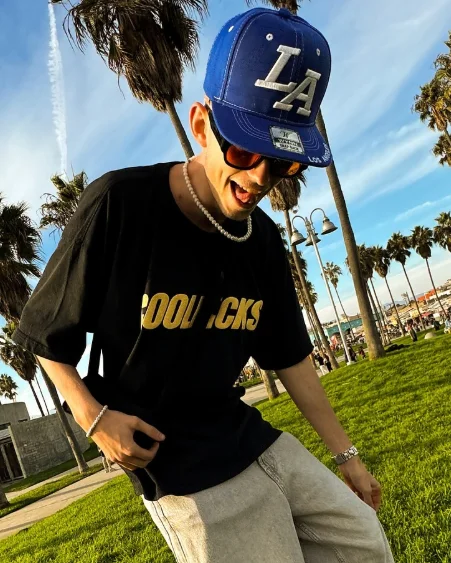
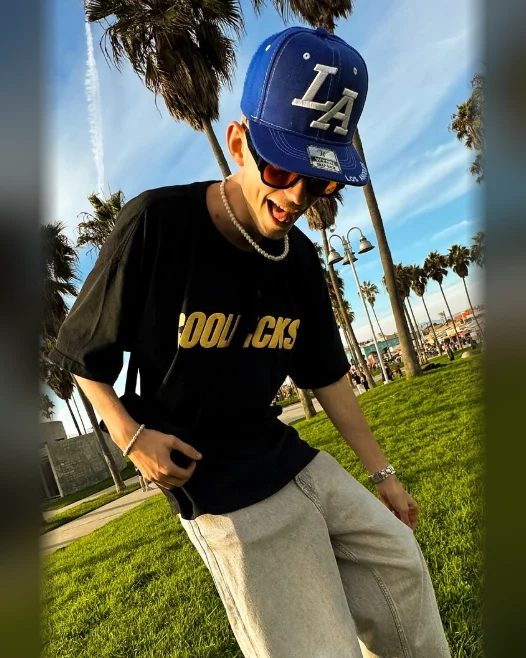
About-Slideshow: nur noch 4 Fotos, Brillen-Foto zuerst
Claude-Session: https://claude.ai/code/session_015Z19F1LdQwXbXrXTfqebLH

diff --git a/index.html b/index.html
@@ -930,7 +930,7 @@
       <header class="sec-head grid12"><h2 id="h-ueber" lang="en">About me</h2></header>
       <div class="grid12">
         <div class="about-a reveal">
-          <figure class="about-photo" aria-roledescription="Slideshow" aria-label="Fotos von Fabian"><img src="img/fabian.webp" alt="Fabian alias Preecie" width="800" height="1000" decoding="async" fetchpriority="low" class="on"><img src="img/fabian-2.webp" alt="" width="576" height="720" decoding="async" loading="lazy"><img src="img/fabian-3.webp" alt="" width="620" height="775" decoding="async" loading="lazy"><img src="img/fabian-4.webp" alt="" width="451" height="563" decoding="async" loading="lazy"><img src="img/fabian-6.webp" alt="" width="460" height="575" decoding="async" loading="lazy"><img src="img/fabian-7.webp" alt="" width="533" height="666" decoding="async" loading="lazy"><img src="img/fabian-5.webp" alt="" width="284" height="355" decoding="async" loading="lazy"><span class="ap-bars" aria-hidden="true"><i></i><i></i><i></i><i></i><i></i><i></i><i></i></span><button type="button" class="ap-nav prev" aria-label="Vorheriges Foto"></button><button type="button" class="ap-nav next" aria-label="Nächstes Foto"></button><figcaption>Fabian · Preecie</figcaption></figure>
+          <figure class="about-photo" aria-roledescription="Slideshow" aria-label="Fotos von Fabian"><img src="img/fabian-5.webp" alt="Fabian alias Preecie" width="284" height="355" decoding="async" fetchpriority="low" class="on"><img src="img/fabian-2.webp" alt="" width="576" height="720" decoding="async" loading="lazy"><img src="img/fabian-4.webp" alt="" width="526" height="658" decoding="async" loading="lazy"><img src="img/fabian-7.webp" alt="" width="533" height="666" decoding="async" loading="lazy"><span class="ap-bars" aria-hidden="true"><i></i><i></i><i></i><i></i></span><button type="button" class="ap-nav prev" aria-label="Vorheriges Foto"></button><button type="button" class="ap-nav next" aria-label="Nächstes Foto"></button><figcaption>Fabian · Preecie</figcaption></figure>
           <div class="about-a-text">
             <p class="about-lead"><strong>Ich bin Preecie – Grafikdesigner.</strong> Ich gestalte Flyer, Motion Design und Branding für Clubs, Events, Gastro und Marken. Egal ob Party, Neueröffnung oder Menükarte: Ein Visual muss sofort wirken.</p>
             <p class="about-punch">Im Feed auffallen. <em>An der Tür, am Tresen, auf dem Plakat.</em></p>
